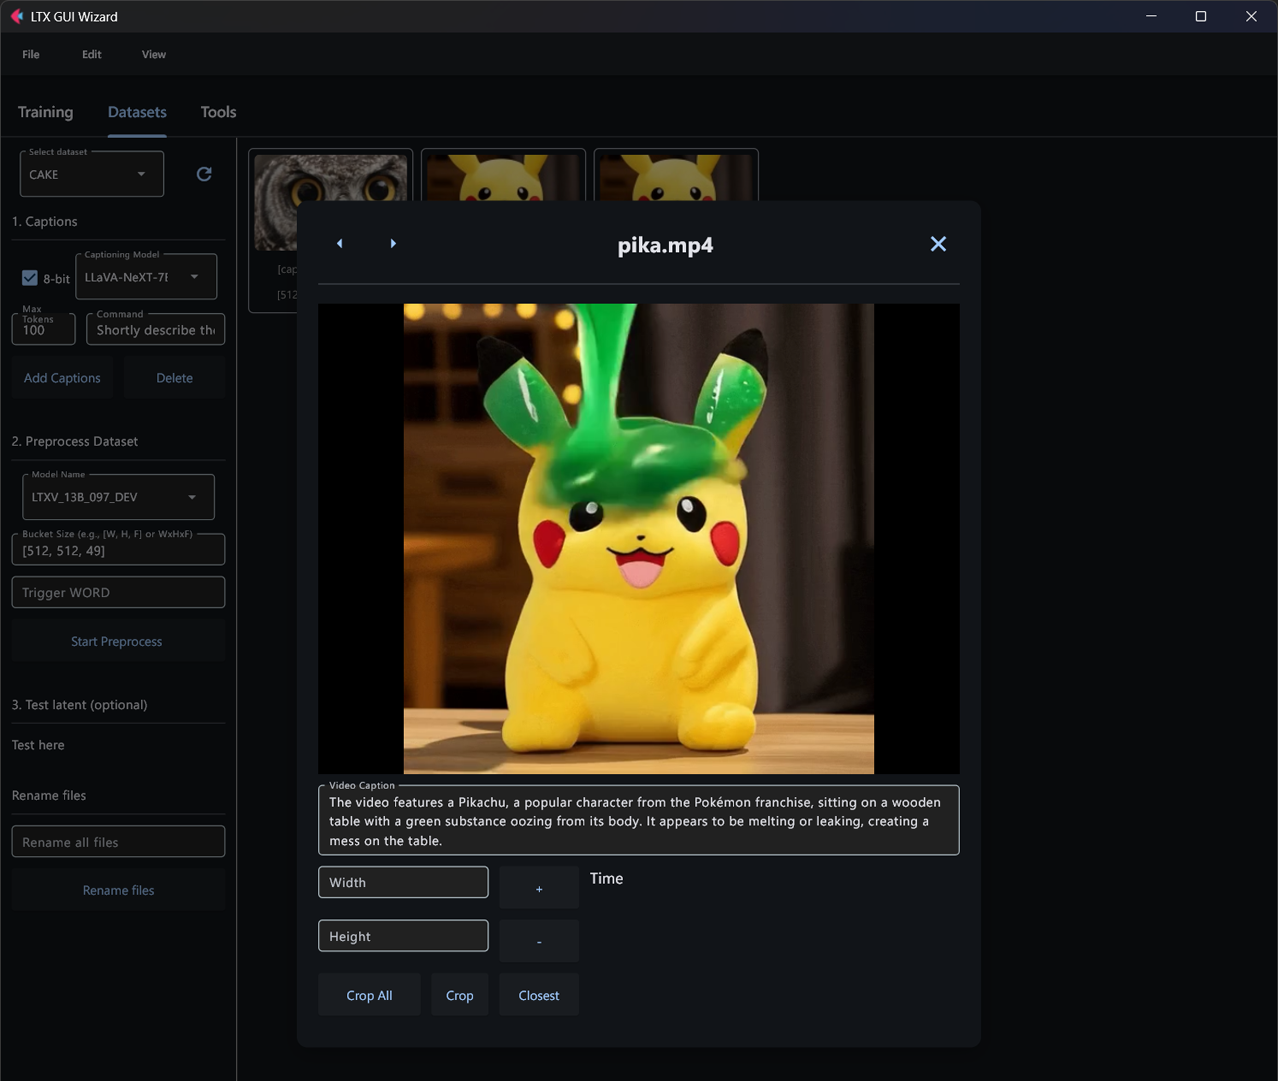
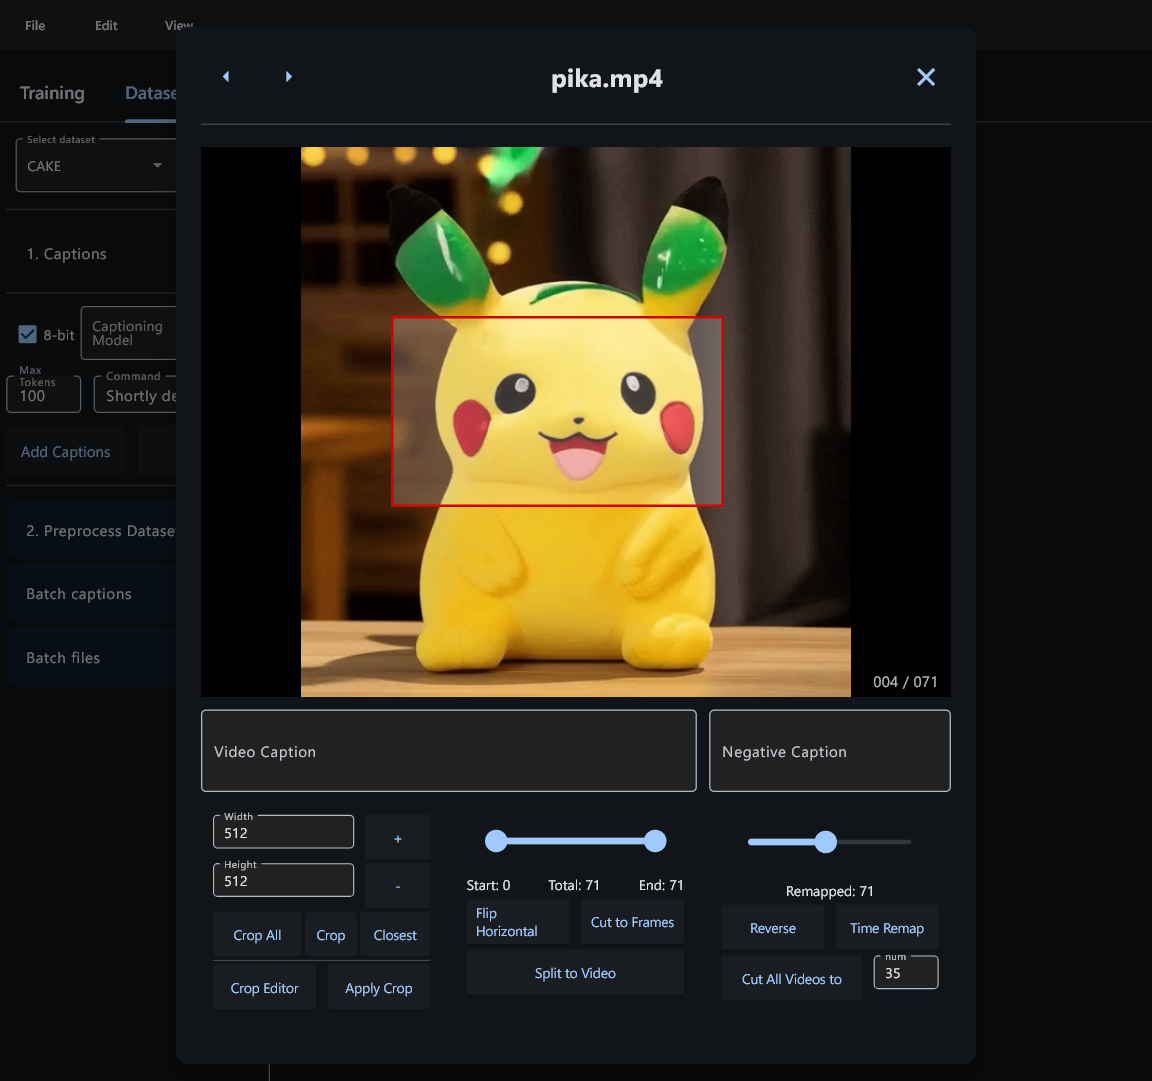
info update

diff --git a/README.md b/README.md
@@ -62,12 +62,14 @@ The "Sampling" subtab allows you to run inference tests on your model during the
 - `ctrl + O` - open
 - `]` - next video
 - `[` - previous video
+- `C` - hold before changing cropping area for aspect ratio lock 
 
 ---
 
 ![UI 01](flet_app/assets/git_images/ui_01.png)
 ![UI 02](flet_app/assets/git_images/ui_02.png)
 ![UI 03](flet_app/assets/git_images/ui_03.png)
+![UI 04](flet_app/assets/git_images/ui_04.png)
 
 ---
 
